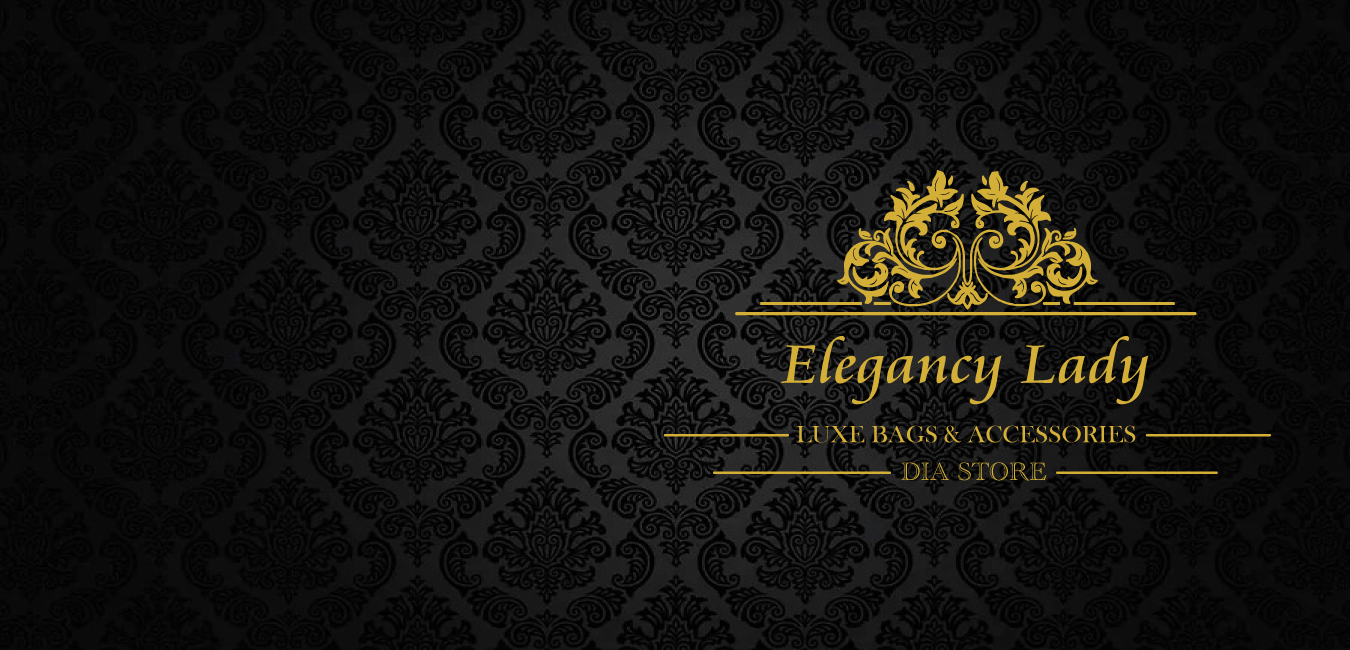
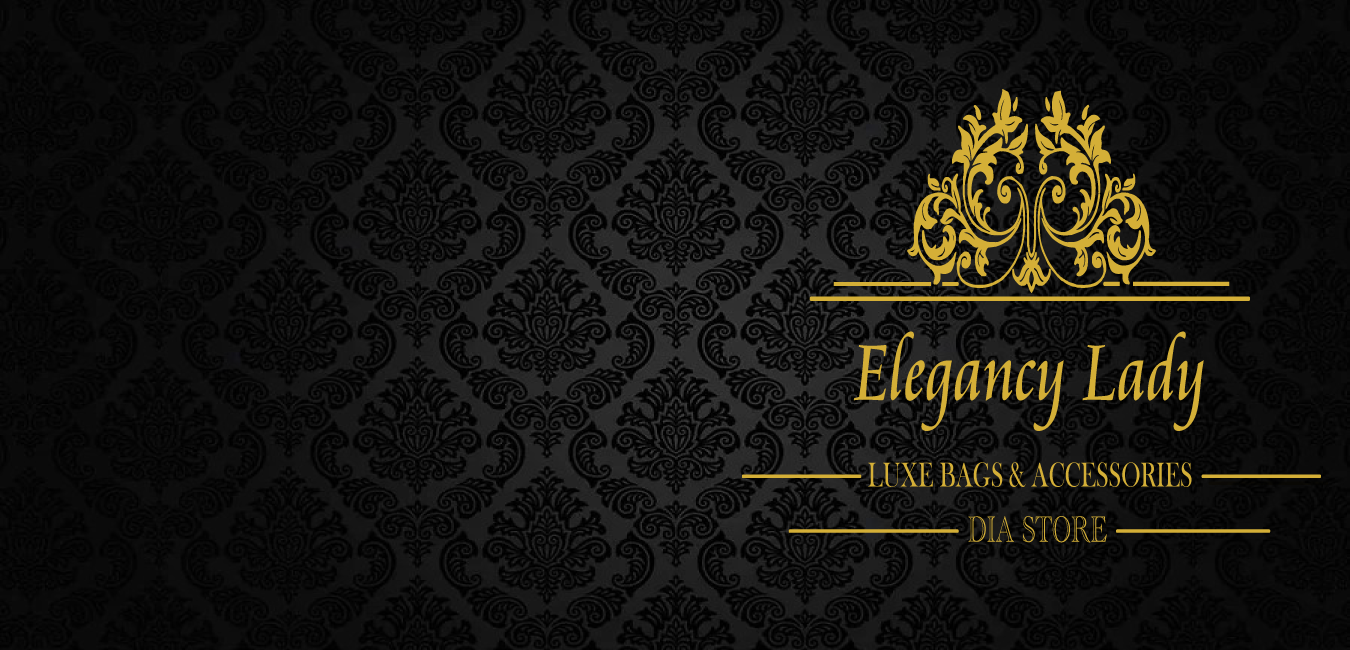
EDIT

diff --git a/client/src/Pages/Home.js b/client/src/Pages/Home.js
@@ -4,9 +4,9 @@ import axios from "axios"
 import Header from "../Components/Header"
 import Footer from "../Components/Footer"
 import hero from '../images/hero.png'
-// import Background from '../images/Background.jpg'
+import Background from '../images/Background.jpg'
 import { Link } from "react-router-dom"
-
+import './Home.css'
 
 const Home = () => {
 
@@ -29,7 +29,8 @@ const Home = () => {
               style={{
                 backgroundPosition: "50%",
               }}>
-              <img className=" h-56 lg:h-96 xl:h-96 w-full" src={hero} alt="" />
+              <img className="hide-when-mobile h-56 lg:h-96 xl:h-96 w-full" src={hero} alt="" />
+              <img className="show-when-mobile h-56 lg:h-96 xl:h-96 w-full" src={Background} alt="" />
               <div className="absolute top-0 right-0 bottom-0 left-0 h-full w-full overflow-hidden bg-[hsla(0,0%,0%,0.50)] bg-fixed">
                 <div className="flex h-full items-center justify-left">
                   <div className="px-6 text-left text-amber-400 md:px-12">
@@ -38,7 +39,7 @@ const Home = () => {
                     </h1>
                     <h3 className="mt-0 -mb-1 xl:mb-10 text-base font-medium tracking-tight md:text-3xl xl:text-4xl">
                       Luxe Bags & Accessories</h3>
-                    <p className="text-sm lg:text-2xl text-white font-medium lg:font-semibold mt-4 lg:-mt-4 mb-4 lg:mb-10">
+                    <p className=" text-sm lg:text-2xl text-white font-medium lg:font-semibold mt-4 lg:-mt-4 mb-4 lg:mb-10">
                       ELEGANCY LADY offer you a collection of clothing and accessories <br /> By the latest trends and 100% authentic!
                     </p>
                     <Link
@@ -57,7 +58,7 @@ const Home = () => {
           <br />
           <section className="mt-6">
             <div
-              className=" h-48 lg:h-64 overflow-hidden bg-cover bg-center"
+              className="h-48 lg:h-64 overflow-hidden bg-cover bg-center"
               style={{
                 backgroundImage:
                   'url("https://wallpaperaccess.com/full/318963.jpg")'
@@ -94,24 +95,24 @@ const Home = () => {
                     <div className="aspect-h-1 aspect-w-1 w-full overflow-hidden rounded-md bg-gray-200 lg:aspect-none lg:h-80">
                       <img src={singleProduct.imageSrc} alt={singleProduct.imageAlt} className="h-full w-full object-cover object-center lg:h-full lg:w-full" />
                     </div>
-                    <button className="p-2 rounded-full bg-white text-white mx-56 -my-24 -mb-4 hover:bg-white focus:outline-none focus:bg-white">
+                    <button className="p-2 rounded-full bg-white text-white mx-64 lg:mx-56 -my-24 -mb-4 hover:bg-white focus:outline-none focus:bg-white">
                       <svg className="h-6 w-6" fill="#262626" height="24" viewBox="0 0 48 48" width="24"><path d="M34.6 6.1c5.7 0 10.4 5.2 10.4 11.5 0 6.8-5.9 11-11.5 16S25 41.3 24 41.9c-1.1-.7-4.7-4-9.5-8.3-5.7-5-11.5-9.2-11.5-16C3 11.3 7.7 6.1 13.4 6.1c4.2 0 6.5 2 8.1 4.3 1.9 2.6 2.2 3.9 2.5 3.9.3 0 .6-1.3 2.5-3.9 1.6-2.3 3.9-4.3 8.1-4.3m0-3c-4.5 0-7.9 1.8-10.6 5.6-2.7-3.7-6.1-5.5-10.6-5.5C6 3.1 0 9.6 0 17.6c0 7.3 5.4 12 10.6 16.5.6.5 1.3 1.1 1.9 1.7l2.3 2c4.4 3.9 6.6 5.9 7.6 6.5.5.3 1.1.5 1.6.5.6 0 1.1-.2 1.6-.5 1-.6 2.8-2.2 7.8-6.8l2-1.8c.7-.6 1.3-1.2 2-1.7C42.7 29.6 48 25 48 17.6c0-8-6-14.5-13.4-14.5z"></path>
                       </svg>
                     </button>
                     <div className="mt-4 justify-between">
-                      <div>
+                      <div className="ml-4 lg:ml-0">
                         <h3 className="-mt-4 text-lg font-medium text-gray-700 dark:text-gray-200">
                           <Link to={`/ProductDetails/${singleProduct._id}`}>
                             <span aria-hidden="true" className="absolute inset-0" />
                             {singleProduct.name}
                           </Link>
                         </h3>
-                        <p className="text-gray-700 uppercase">
+                        <p className="text-gray-600 uppercase">
                           {singleProduct.color}</p>
                         {/* <Rating value={singleProduct.rating} /> */}
                       </div>
                       <div className="">
-                        <p className="text-gray-500 mb-2">
+                        <p className=" text-lg text-gray-800 -mt-6 lg:mt-0 ml-60 lg:ml-0 mb-2">
                           {singleProduct.price} DH</p>
                         <div className="flex items-center justify-center w-full capitalize font-medium tracking-wide rounded-md bg-gray-800 text-white px-2 py-2 group-hover:bg-gray-700">
                           <svg xmlns="http://www.w3.org/2000/svg" className="w-5 h-5 mx-1" viewBox="0 0 20 20" fill="currentColor">

diff --git a/client/src/Pages/ShoppingCart.js b/client/src/Pages/ShoppingCart.js
@@ -32,9 +32,9 @@ const ShoppingCart = () => {
         <div className="w-full min-h-screen bg-gray-100 flex flex-col">
           <div className="block lg:flex" >
             <div id="scroll"
-              className="m-14 lg:m-20 lg:w-1/2 md:w-8/12 lg:px-20 lg:py-5 md:px-6 px-4 md:py-7 py-4 bg-gray-300 dark:bg-gray-800 overflow-y-hidden overflow-x-hidden lg:h-96 h-auto">
+              className="border-2 border-blue-800 m-14 lg:m-20 lg:w-1/2 md:w-8/12 lg:px-20 lg:py-5 md:px-6 px-4 md:py-7 py-4 bg-gray-300 dark:bg-gray-800 overflow-y-hidden overflow-x-hidden lg:h-80 h-auto">
               <div onclick="checkoutHandler(false)"
-                className="flex items-center text-gray-500 hover:text-gray-600 dark:text-white cursor-pointer">
+                className=" flex items-center text-gray-500 hover:text-gray-600 dark:text-white cursor-pointer">
                 <svg xmlns="http://www.w3.org/2000/svg"
                   className="icon icon-tabler icon-tabler-chevron-left"
                   width={16} height={16}
@@ -44,13 +44,13 @@ const ShoppingCart = () => {
                   <path stroke="none" d="M0 0h24v24H0z" fill="none" />
                   <polyline points="15 6 9 12 15 18" />
                 </svg>
-                <Link to={`/ProductDetails/${singleProduct._id}`} className="text-sm pl-2 leading-none dark:hover:text-gray-200">
+                <Link to={`/ProductDetails/${singleProduct._id}`} className=" text-sm pl-2 leading-none dark:hover:text-gray-200">
                   Back
                 </Link>
               </div>
-              <p className="lg:text-2xl text-xl font-black leading-10 text-gray-800 dark:text-white pt-3 ml-4 lg:mb-5">
+              {/* <p className="lg:text-2xl text-xl font-black leading-10 text-gray-800 dark:text-white pt-1 ml-4 lg:mb-5">
                 Items
-              </p>
+              </p> */}
               <div className="flex">
                 <div className="md:flex items-strech py-0 border-t border-gray-300 ml-4 mb-4">
                   <div className="md:w-4/12 2xl:w-1/4 w-full mb-4">

diff --git a/client/src/Pages/Home.css b/client/src/Pages/Home.css
@@ -1,0 +1,24 @@
+.hide-when-mobile {
+  display: flex;
+  justify-content: space-around;
+}
+
+.show-when-mobile {
+  display: none;
+}
+
+
+
+@media only screen and (max-width: 768px) {
+
+*{
+  margin-right: 0;
+}
+
+.show-when-mobile {
+  display: block;
+}
+.hide-when-mobile {
+  display: none;
+}
+}

diff --git a/client/src/Pages/Products.js b/client/src/Pages/Products.js
@@ -46,7 +46,7 @@ const Products = () => {
               </div>
             </div>
             <img
-            className=" mx-auto h-28 w-auto mt-4 -mb-20"
+            className=" mx-auto h-28 w-auto mt-4 -mb-12 lg:-mb-20"
             src={Logo1}
             alt="Your Company"
           />
